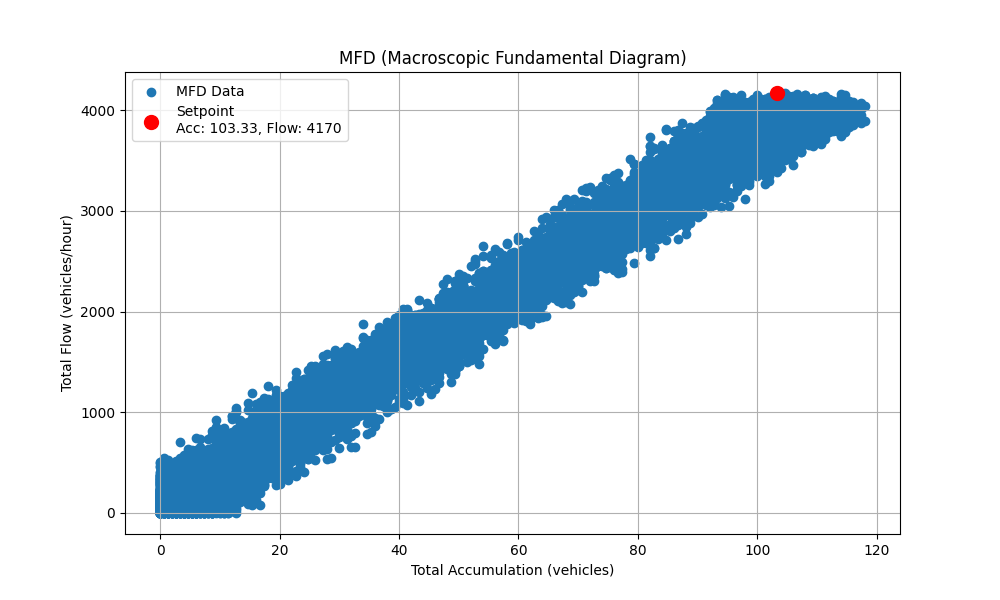
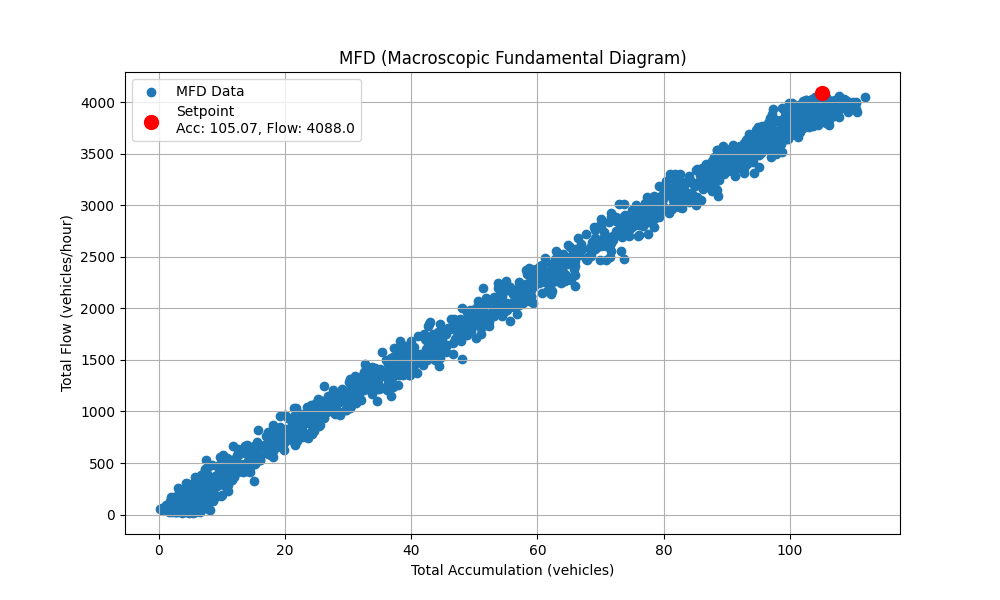
update

diff --git a/mfd.py b/mfd.py
@@ -13,41 +13,64 @@ def calculate_accumulation(occupancy, lane_length, num_lanes):
 
 def process_mfd_data(data_by_timestamp, lane_length, num_lanes_map):
     """
-    Xử lý dữ liệu thô để tạo ra các điểm dữ liệu cho MFD.
+    Xử lý và tổng hợp dữ liệu thô để tạo ra các điểm dữ liệu cho MFD
+    theo chu kỳ 50 giây.
     """
     mfd_data_points = []
-    for timestamp, records in data_by_timestamp.items():
+    
+    # Sắp xếp các timestamp để đảm bảo xử lý theo thứ tự thời gian
+    sorted_timestamps = sorted(data_by_timestamp.keys())
+    
+    # Lặp qua các timestamp theo từng khối 5 (5 * 10s = 50s)
+    for i in range(0, len(sorted_timestamps), 5):
+        chunk_timestamps = sorted_timestamps[i:i+5]
         
-        # Nhóm các bản ghi theo detector_id
-        records_by_detector = defaultdict(list)
-        for record in records:
-            records_by_detector[record.get('detector_id')].append(record)
+        # Chỉ xử lý nếu có đủ 5 timestamp trong khối
+        if len(chunk_timestamps) < 5:
+            continue
 
-        total_flow_at_ts = 0
-        total_accumulation_at_ts = 0
+        window_accumulations = []
+        window_flows = []
 
-        # Xử lý từng detector tại timestamp này
-        for detector_id, detector_records in records_by_detector.items():
-            if not detector_records:
-                continue
-
-            # Tính toán các giá trị trung bình cho detector này
-            avg_occupancy = sum(rec['space_occupy_ratio'] for rec in detector_records) / len(detector_records)
-            total_flow_for_detector = sum(rec['flow'] for rec in detector_records)
+        # Xử lý từng timestamp trong khối 50s
+        for timestamp in chunk_timestamps:
+            records = data_by_timestamp[timestamp]
             
-            num_lanes_for_detector = num_lanes_map.get(detector_id, 1)
+            records_by_detector = defaultdict(list)
+            for record in records:
+                records_by_detector[record.get('detector_id')].append(record)
 
-            # Tính toán tích lũy cho toàn bộ detector
-            accumulation_for_detector = calculate_accumulation(
-                avg_occupancy,
-                lane_length,
-                num_lanes_for_detector
-            )
+            total_flow_at_ts = 0
+            total_accumulation_at_ts = 0
 
-            total_flow_at_ts += total_flow_for_detector
-            total_accumulation_at_ts += accumulation_for_detector
+            for detector_id, detector_records in records_by_detector.items():
+                if not detector_records:
+                    continue
 
-        mfd_data_points.append((total_accumulation_at_ts, total_flow_at_ts))
+                avg_occupancy = sum(rec['space_occupy_ratio'] for rec in detector_records) / len(detector_records)
+                total_flow_for_detector = sum(rec['flow'] for rec in detector_records)
+                num_lanes_for_detector = num_lanes_map.get(detector_id, 1)
+
+                accumulation_for_detector = calculate_accumulation(
+                    avg_occupancy,
+                    lane_length,
+                    num_lanes_for_detector
+                )
+
+                total_flow_at_ts += total_flow_for_detector
+                total_accumulation_at_ts += accumulation_for_detector
+            
+            window_accumulations.append(total_accumulation_at_ts)
+            window_flows.append(total_flow_at_ts)
+
+        # Tổng hợp kết quả cho cửa sổ 50s
+        # Tích lũy là trung bình cộng
+        final_accumulation = sum(window_accumulations) / len(window_accumulations)
+        # Lưu lượng là trung bình cộng (để giữ đúng đơn vị vehicles/hour)
+        final_flow = sum(window_flows) / len(window_flows)
+        
+        mfd_data_points.append((final_accumulation, final_flow))
+        
     return mfd_data_points
 
 def find_mfd_setpoint(mfd_data):
